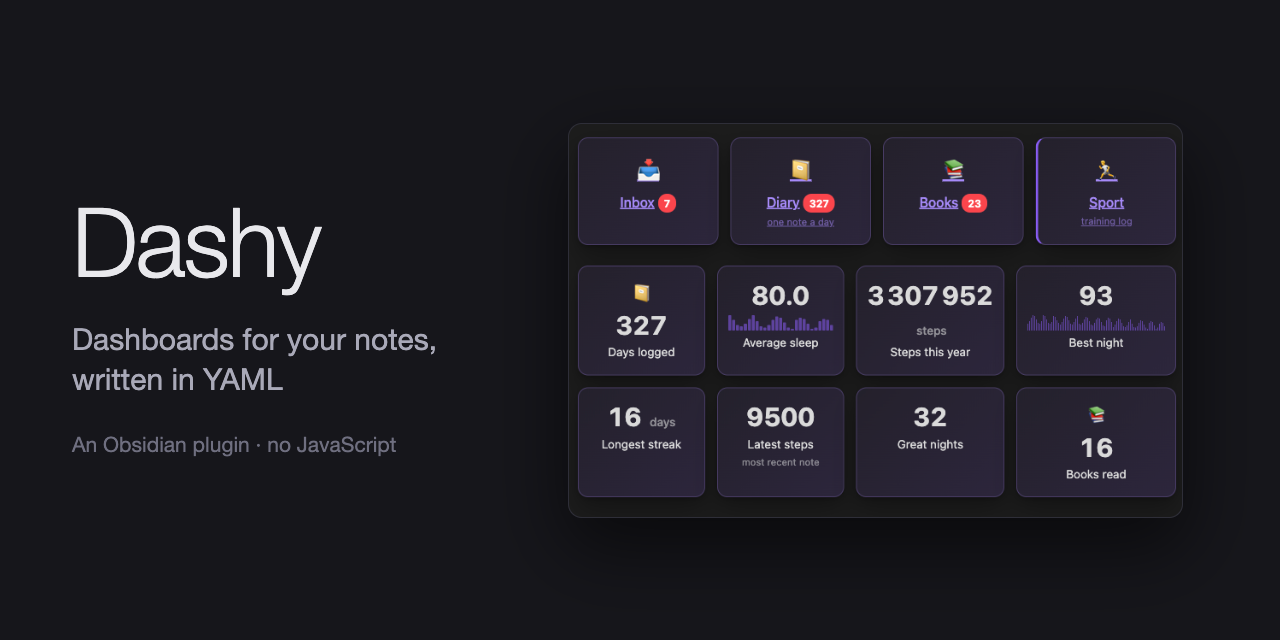
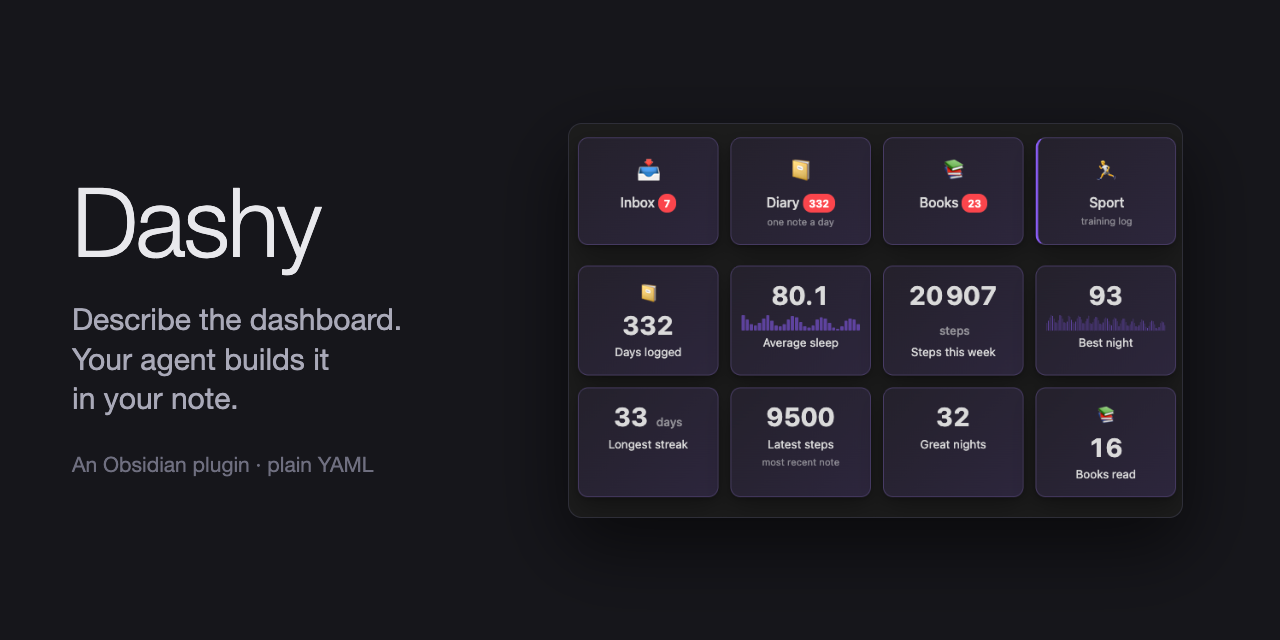
docs(brand): the hero shows a request and the note an agent wrote from it
The 2.0 README opens on the claim that an agent builds the dashboard, so
the first picture now shows one: a prompt on the left, and on the right
the note an agent wrote from it in the demo vault, given only the Dashy
skill, as a running Obsidian draws it. The note goes into the demo vault
word for word, only the marathon's year follows the vault's dates by the
agent's own rule, and its comment says to re-run the agent rather than
edit it, since the picture claims the agent wrote it.

npm run capture shoots the note and scripts/agent-hero.cjs puts the
prompt beside it. The social card carries the new tagline.

Backlog: B-184

diff --git a/e2e/capture.spec.ts b/e2e/capture.spec.ts
@@ -518,3 +518,26 @@ test("reel: the dashboard follows the theme", async ({ win }) => {
         await reel.hold(region, 6);
     }
 });
+
+/**
+ * The 2.0 hero's right half (B-184): the note an agent wrote for the prompt in
+ * scripts/agent-hero.cjs, as Obsidian draws it. Clipped from the note's title
+ * to the last block; the script puts the prompt beside it.
+ */
+for (const theme of ["obsidian", "moonstone"] as const) {
+    const suffix = theme === "obsidian" ? "dark" : "light";
+
+    test(`agent hero note, ${suffix}`, async ({ win }) => {
+        await setUp(win, theme);
+        const view = win.locator(READING_VIEW);
+        await openNote(win, "Running.md", ".dashy-chart-svg");
+        // From the note's title, so the picture says which note this is.
+        const box = await union(view.locator(".inline-title").first(), view.locator(".dashy-chart").last());
+        const pad = 24;
+        await win.screenshot({
+            path: path.join(SHOTS, `agent-note-${suffix}.png`),
+            clip: { x: box.x - pad, y: box.y - pad, width: box.width + 2 * pad, height: box.height + 2 * pad },
+        });
+        await openNote(win, "Dashboard.md", ".dashy-hm-cell");
+    });
+}

diff --git a/README.md b/README.md
@@ -18,12 +18,12 @@ Plain YAML you can read and edit. No JavaScript, no Dataview, works on your phon
 [Website](https://dimagious.github.io/dashsidian/) · [Build one with your agent](https://dimagious.github.io/dashsidian/guides/ai-agent-dashboard/) · [Every block and key](https://dimagious.github.io/dashsidian/reference/) · [Guides](https://dimagious.github.io/dashsidian/guides/) · [Changelog](https://github.com/Dimagious/dashsidian/blob/master/CHANGELOG.md)
 
 <picture>
-  <source media="(prefers-color-scheme: dark)" srcset="https://raw.githubusercontent.com/Dimagious/dashsidian/HEAD/docs/screens/hero-dark.png">
-  <img alt="One Obsidian note: four cards (sleep this week, days in a row, run this week, gym days), weekly running bars against a 30 km goal line, and six months of nights as a heatmap"
-       src="https://raw.githubusercontent.com/Dimagious/dashsidian/HEAD/docs/screens/hero-light.png">
+  <source media="(prefers-color-scheme: dark)" srcset="https://raw.githubusercontent.com/Dimagious/dashsidian/HEAD/docs/screens/agent-hero-dark.png">
+  <img alt="Left, a request to an AI agent: a running dashboard with weekly distance as bars against a 40 km goal, this week's distance, the current streak and a countdown to a marathon on May 17. Right, the Obsidian note it wrote: a countdown with 223 days left, two cards for this week's 20.8 km and the current streak, and weekly bars under a dashed 40 km line."
+       src="https://raw.githubusercontent.com/Dimagious/dashsidian/HEAD/docs/screens/agent-hero-light.png">
 </picture>
 
-That page is one note and three blocks: `stats`, `chart` and `heatmap`. An agent can write all three; you open the note and check, and a block that can't draw says why.
+One request on the left, the note it wrote on the right: three blocks, `countdown`, `stats` and `chart`, in a demo vault. You open the note and check; a block that can't draw says why.
 
 ## Install
 
